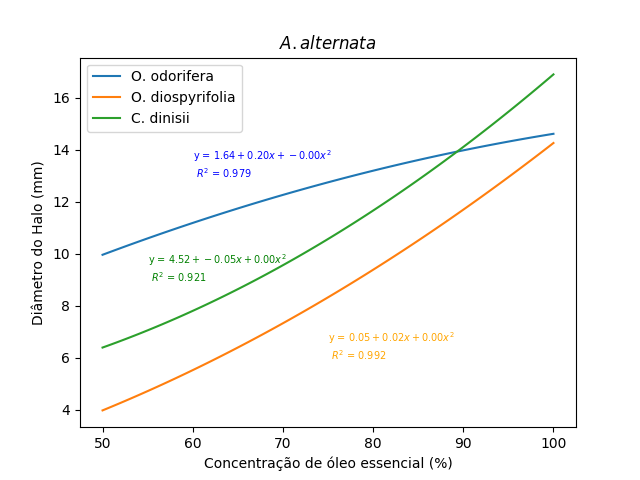
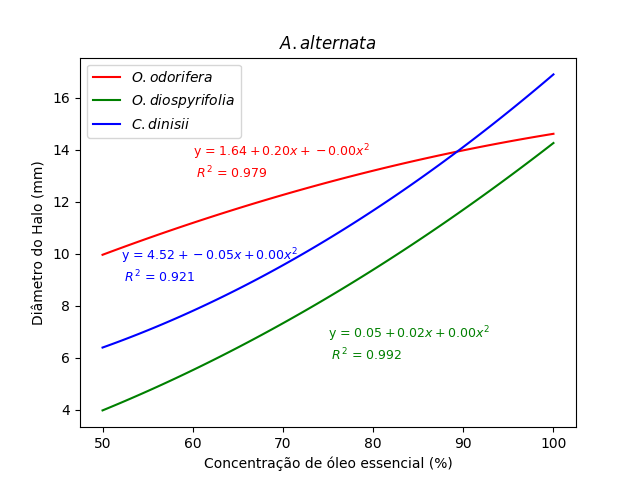
change plots

diff --git a/PlotData.py b/PlotData.py
@@ -119,13 +119,13 @@ class PlotData():
         # fig.text(0.02, 0.5, u'Diâmetro do Halo (mm)', va='center', rotation='vertical')
         # fig.text(0.5, 0.04, u'Concentração de óleo essencial (%)', ha='center')
         # plt1 = self.arg.plot()
-        plt1 = self.fitcurve.plot()
+        plt1 = self.fitcurve.plot(style=['r','g','b'])
         plt.title('$\t{%s}$' % (self.fungo))
         plt.xlabel(u'Concentração de óleo essencial (%)')
         plt.ylabel(u'Diâmetro do Halo (mm)')
-        plt.text(60,13, 'y = ' + self.pollatex[0]+'\n $R^2$ = %0.3f' %  (self.rSquare[0]), fontsize=7, color='blue')
-        plt.text(75,6, 'y = ' + self.pollatex[1]+'\n $R^2$ = %0.3f' %  (self.rSquare[1]), fontsize=7, color='orange')
-        plt.text(55,9, 'y = ' + self.pollatex[2]+'\n $R^2$ = %0.3f' %  (self.rSquare[2]), fontsize=7, color='green')
+        plt.text(60,13, 'y = ' + self.pollatex[0]+'\n $R^2$ = %0.3f' %  (self.rSquare[0]), fontsize=9, color='red')
+        plt.text(75,6, 'y = ' + self.pollatex[1]+'\n $R^2$ = %0.3f' %  (self.rSquare[1]), fontsize=9, color='g')
+        plt.text(52,9, 'y = ' + self.pollatex[2]+'\n $R^2$ = %0.3f' %  (self.rSquare[2]), fontsize=9, color='b')
         # # max and min y
         # axarr[0].set_ylim(np.min(self.arg[self.param[0]])-1,np.max(self.arg[self.param[0]])+1)
         # # axarr[0,0].grid(color='gray',linestyle='--')

diff --git a/main.py b/main.py
@@ -19,7 +19,7 @@ direct = path+'/data/'
 
 # colName = ['O. odorifera', 'O. diospyrifolia', 'O. puberula', 'C. dinisii',]
 # Par = ['Media_odo', 'Media_dio', 'Media_pub', 'Media_din']
-colName = ['O. odorifera', 'O. diospyrifolia','C. dinisii',]
+colName = ['$\t{O. odorifera}$', '$\t{O. diospyrifolia}$','$\t{C. dinisii}$',]
 Par = ['Media_odo', 'Media_dio', 'Media_din']
 #
 fungo = 'A. alternata'
